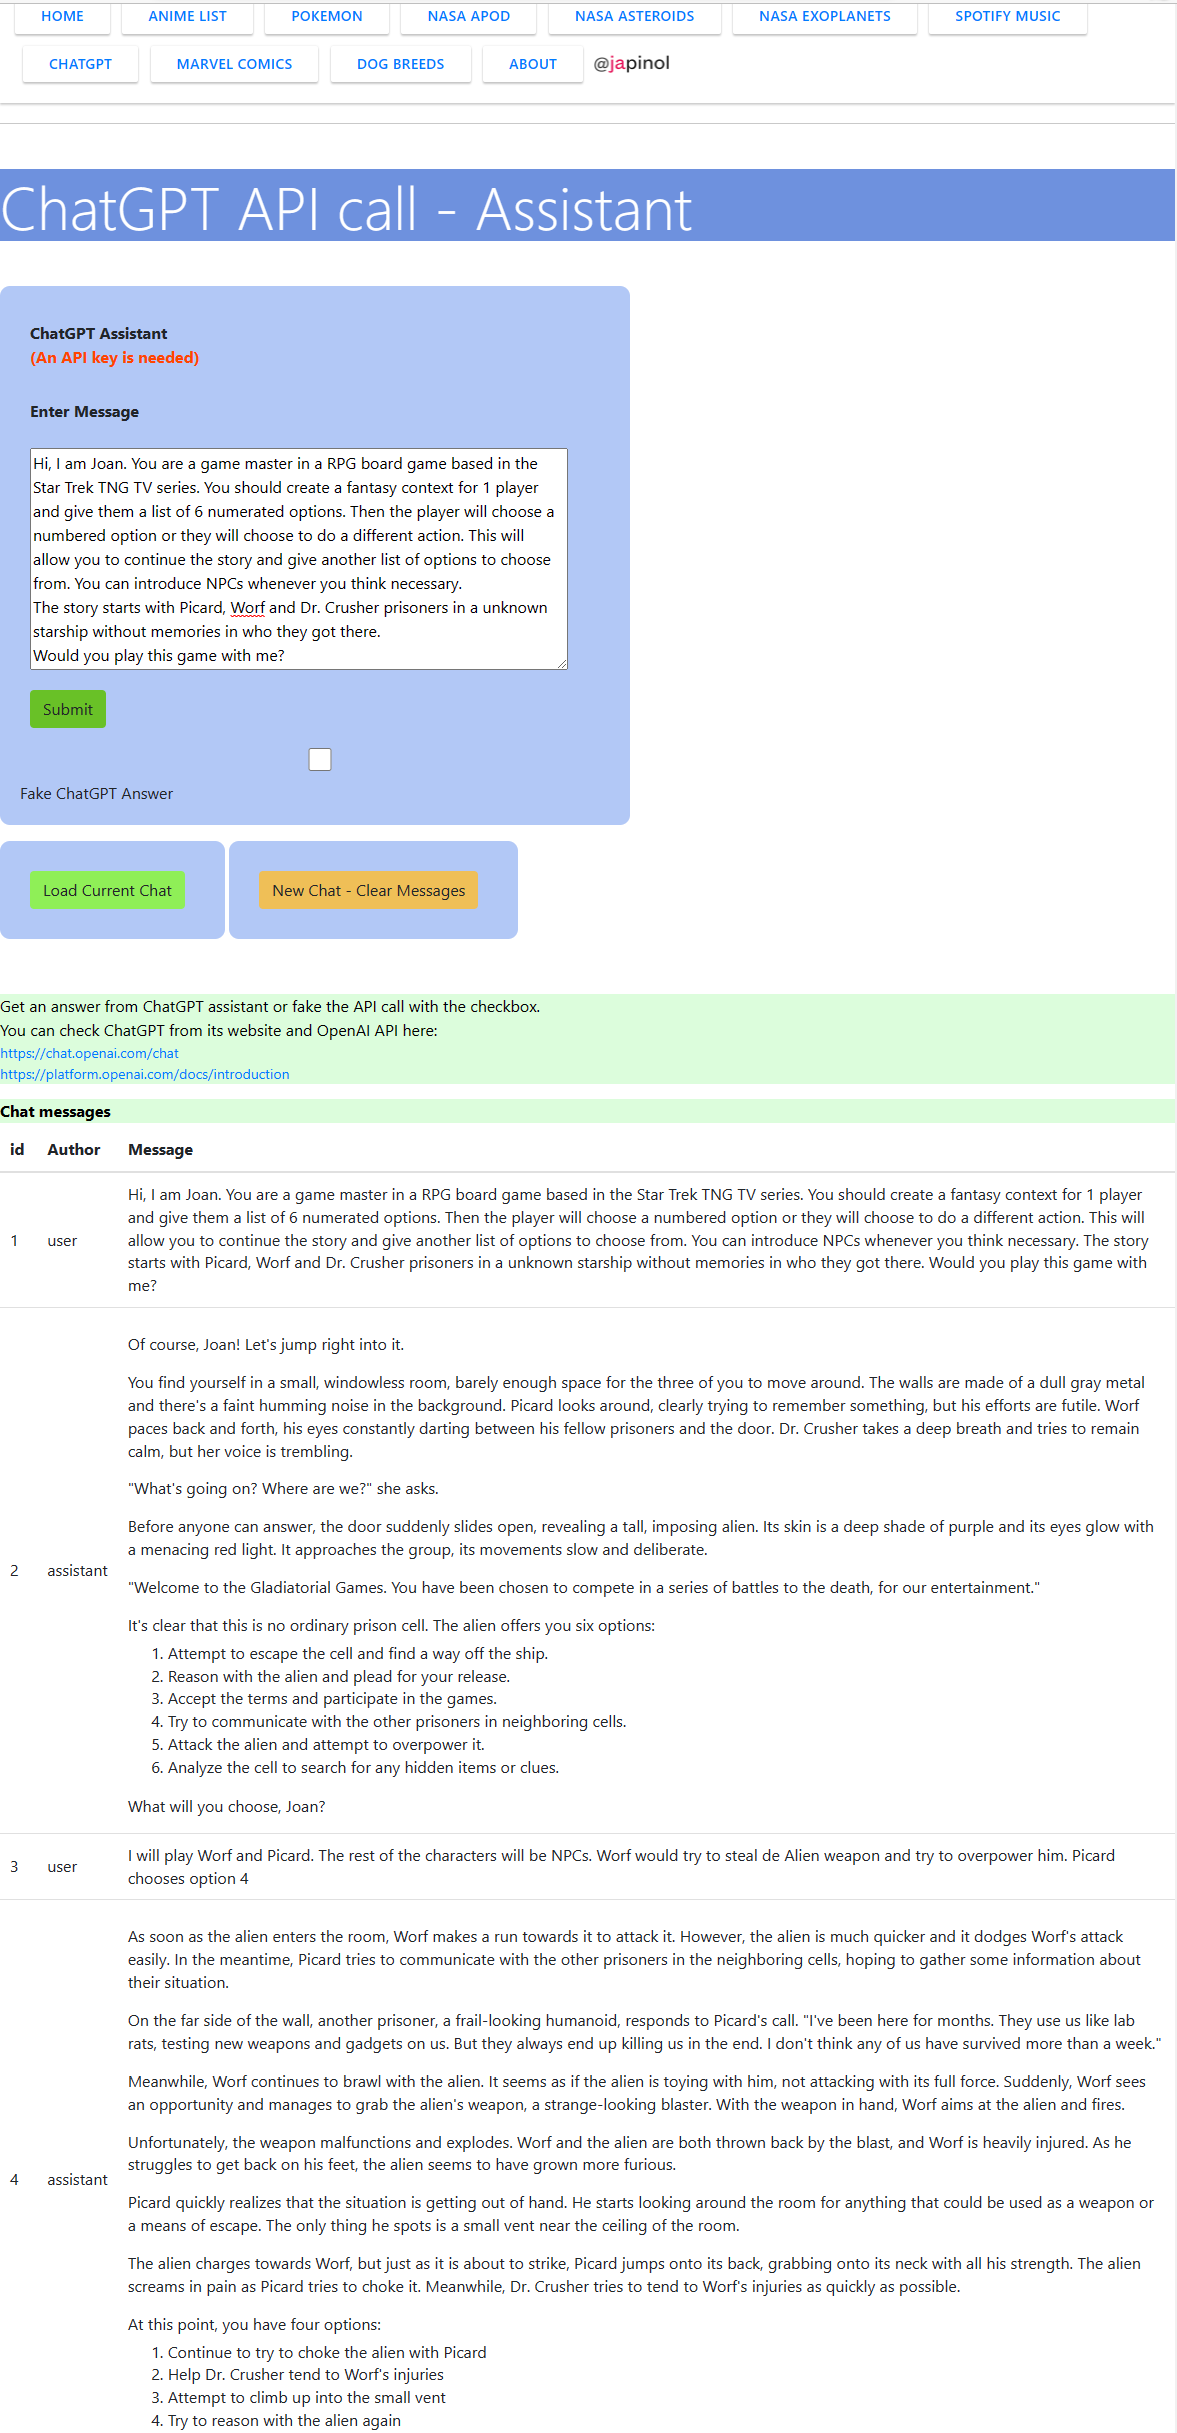
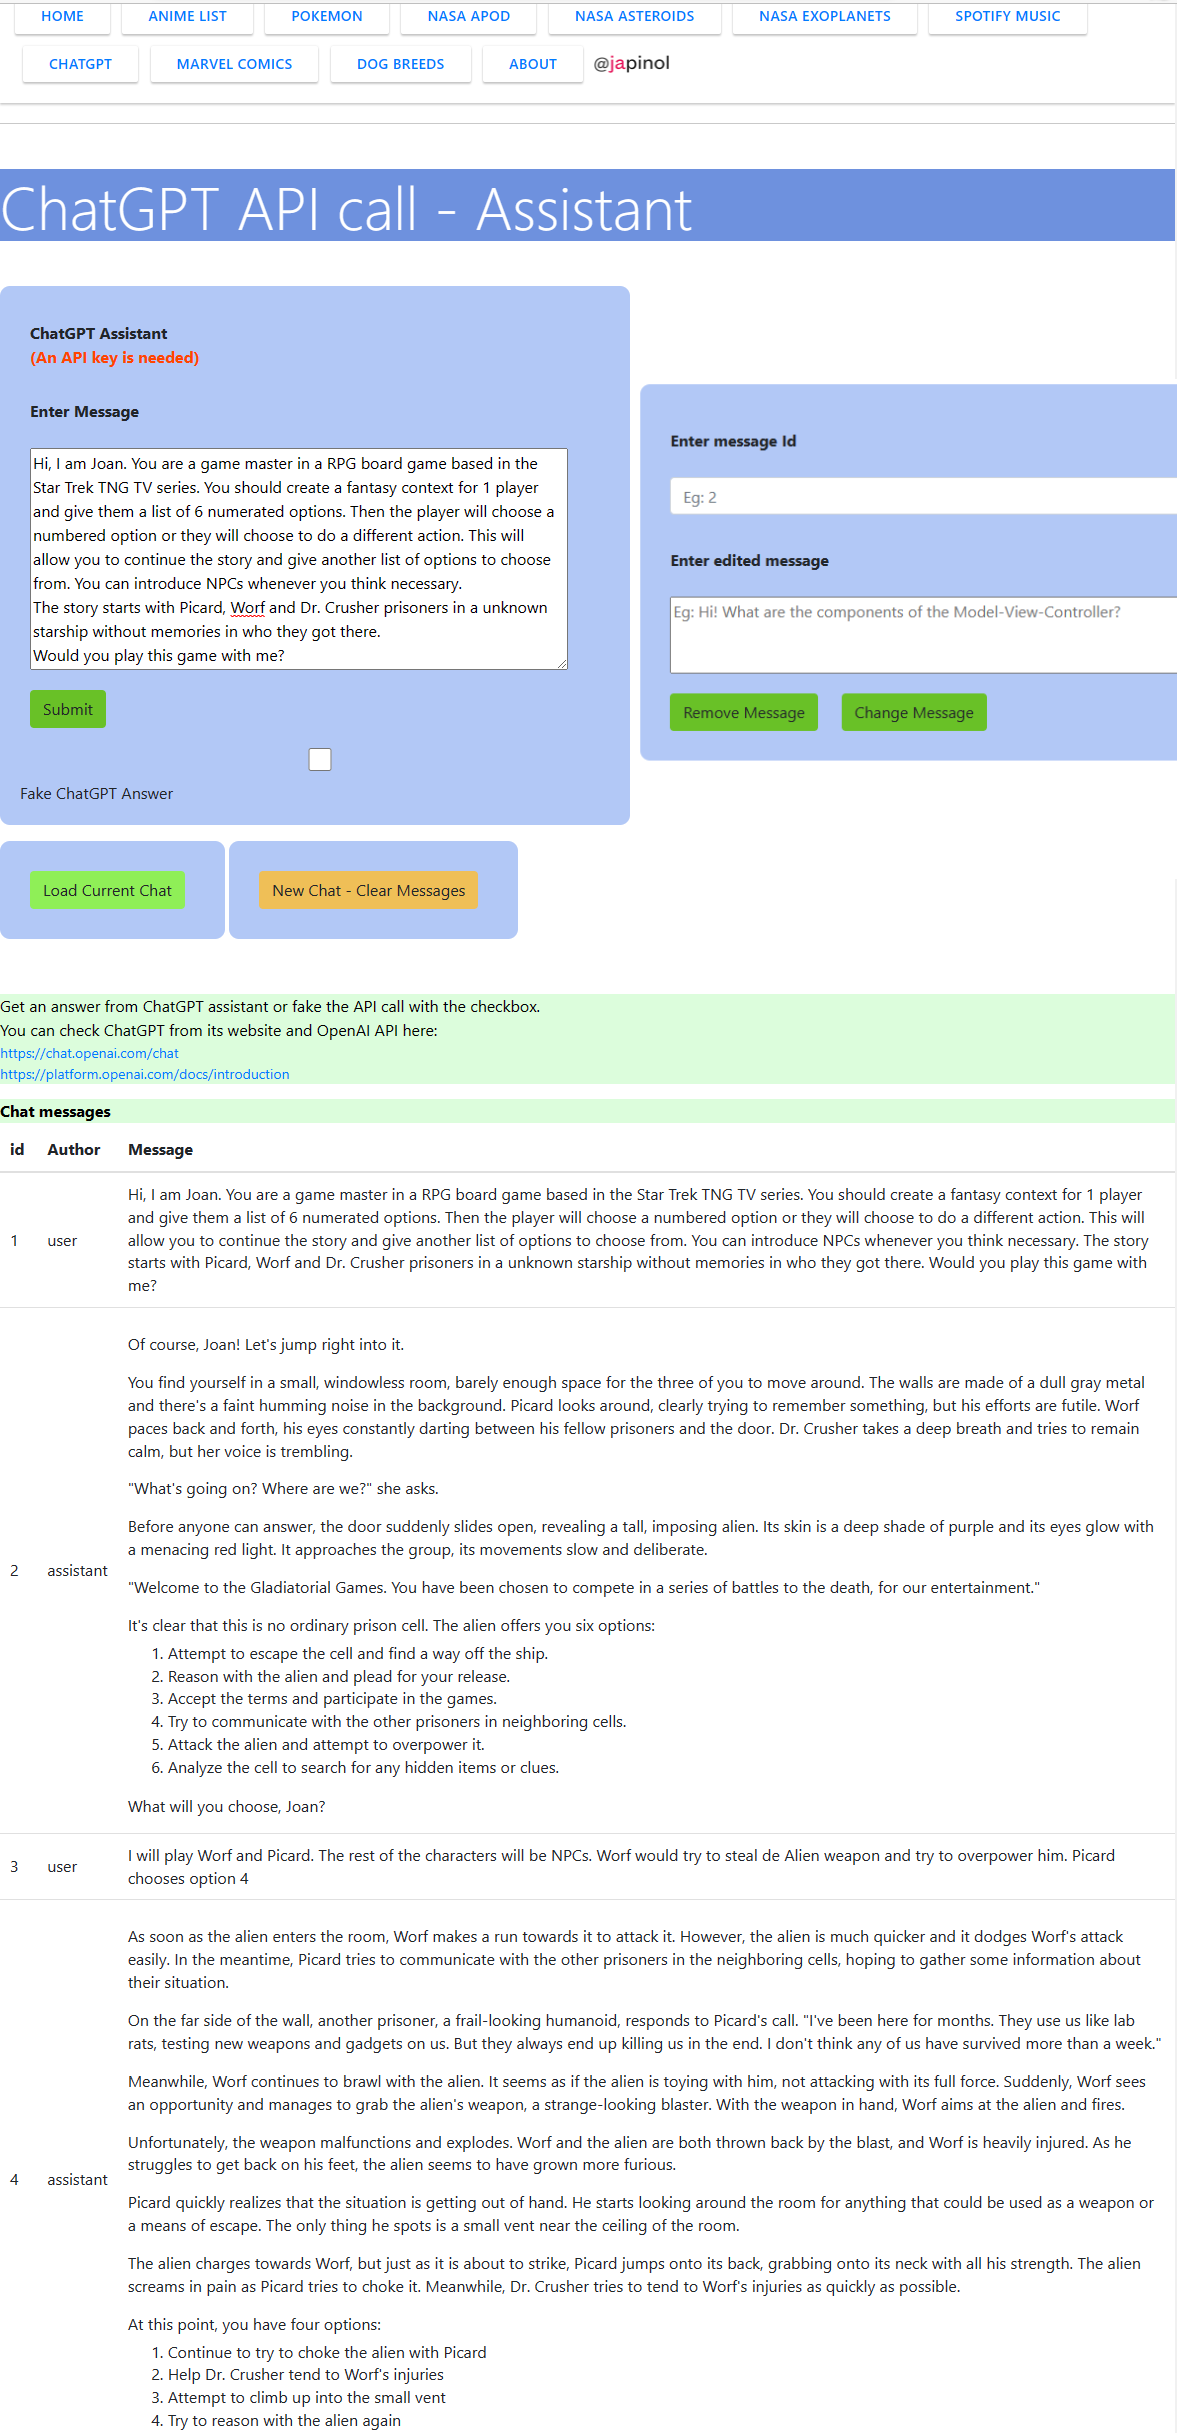
[IMP] chatgpt: Improvements.

Changed region(s): [[0.52, 0.1562, 1.0, 0.3124]]

diff --git a/app/templates/chatgpt.html b/app/templates/chatgpt.html
@@ -10,30 +10,41 @@
                 <span class="body_highlight_color_2">(An API key is needed)</span></strong>
             </p>
             <label for="chatgpt_msg"><p><strong>Enter Message</strong></p></label>
-            <textarea name="chatgpt_msg" id="chatgpt_msg" rows="9" cols="70"
+            <textarea name="chatgpt_msg" id="chatgpt_msg" rows="3" cols="74"
                       placeholder="Eg: Hi! What are the components of the Model-View-Controller?"
                       required></textarea>
-            <button class="submit-messages-random">Submit</button>
+            <button class="submit-message">Submit Message</button>
             <input type=checkbox name="flags"
                    style="font-size:6px;"
                    value="Fake ChatGPT Answer">Fake ChatGPT Answer<br/>
+        </form>
+        <form class="chatgpt-form-class" id="chatgpt_form_remove_msg"
+              action="/chatgpt" method="POST" style="background:#b2c8f6;width: 630px;min-width: 200px;max-width: 800px">
+            <label for="chatgpt_input_remove_msg"><p>
+                <strong>Enter message Id</strong></p></label>
+            <input name="chatgpt_input_remove_msg" id="chatgpt_input_remove_msg"
+                   type="number" placeholder="Eg: 2">
+                <br>
+                <strong>Enter edited message </strong></p></label>
+            <textarea name="chatgpt_msg_change" id="chatgpt_msg_change" rows="3" cols="74"
+                    placeholder="Eg: Hi! What are the components of the Model-View-Controller?"
+                    required></textarea>
+            <button name="chatgpt_remove_msg" id="chatgpt_remove_msg"
+                    class="submit-remove-message">Remove Message</button>
+            <button name="chatgpt_change_msg" id="chatgpt_change_msg"
+                    class="submit-change-message">Change Message</button>
         </form>
 
         <div>
             <form class="chatgpt-form-class" id="chatgpt_form_reload_conversation"
                   action="/chatgpt" method="POST" style="background:#b2c8f6">
-                <button name="chatgpt_reload_messages" id="chatgpt_reload_messages"
-                        style="background:#8fef57"
-                        >Load Current Chat
-                </button>
-            </form>
-
-            <form class="chatgpt-form-class" id="chatgpt_form_new_conversation"
-                  action="/chatgpt" method="POST" style="background:#b2c8f6">
                 <button name="chatgpt_new_chat" id="chatgpt_new_chat"
                         class="chatgpt-new-chat" style="background:#efbf57"
-                        >New Chat - Clear Messages
-                </button>
+                        >New Chat</button>
+                <br> <br> <br>
+                <button name="chatgpt_reload_messages" id="chatgpt_reload_messages"
+                        style="background:#8fef57"
+                        >Load Current Chat</button>
             </form>
         </div>
     </div>

diff --git a/app/chatgpt/views/chatgpt_view.py b/app/chatgpt/views/chatgpt_view.py
@@ -13,6 +13,8 @@ REQUEST_FORM_ID_MAPPINGS = {
     'chatgpt_msg': 'chatgpt_form_conversation',
     'chatgpt_reload_messages': 'chatgpt_form_reload_conversation',
     'chatgpt_new_chat': 'chatgpt_form_new_conversation',
+    'chatgpt_remove_msg': 'chatgpt_form_remove_msg',
+    'chatgpt_change_msg': 'chatgpt_form_change_msg',
     }
 
 
@@ -29,39 +31,72 @@ def chatgpt():
     return render_template('chatgpt.html', messages=messages, form_executed=form_executed)
 
 
-def process_form_chatgpt_msg(conversation_int):
+def process_form_conversation(conversation_int):
     logger.info("Process user input")
     input_text = request.form.get('chatgpt_msg')
+    input_text = input_text.strip() if input_text else ''
     is_fake_msg = 'Fake ChatGPT Answer' in request.form.getlist('flags')
 
     if is_fake_msg:
         logger.info("Generate fake answer")
         conversation_int.get_chatgpt_answer_fake(input_text)
-    else:
+    elif input_text:
         conversation_int.get_chatgpt_answer(input_text)
 
     return {
-        'messages': conversation_int.get_messages(),
+        'messages': conversation_int.get_messages().values(),
         'error': None,
         }
 
 
-def process_form_chatgpt_reload_messages(conversation_int):
+def process_form_reload_messages(conversation_int):
     logger.info("Reload conversation")
     return {
-        'messages': conversation_int.get_messages(),
+        'messages': conversation_int.get_messages().values(),
         'error': None,
         }
 
 
-def process_form_chatgpt_new_chat(conversation_int):
+def process_form_new_chat(conversation_int):
     logger.info("New conversation")
     conversation_int.reset()
     return {}
 
 
+def process_form_remove_msg(conversation_int):
+    logger.info("Remove Message")
+    msg_id = clean_input_id(request.form.get('chatgpt_input_remove_msg'))
+    if msg_id and conversation_int.get_messages().get(msg_id):
+        del conversation_int.get_messages()[msg_id]
+
+    return {
+        'messages': conversation_int.get_messages().values(),
+        'error': None,
+        }
+
+
+def process_form_change_msg(conversation_int):
+    logger.info("Change Message")
+    msg_id = clean_input_id(request.form.get('chatgpt_input_remove_msg'))
+    input_text = request.form.get('chatgpt_msg_change')
+    input_text = input_text.strip() if input_text else ''
+    if msg_id and input_text and conversation_int.get_messages().get(msg_id):
+        conversation_int.change_message(msg_id, input_text)
+
+    return {
+        'messages': conversation_int.get_messages().values(),
+        'error': None,
+        }
+
+
+def clean_input_id(id_):
+    return int(id_) if id_.isnumeric() else 0
+
+
 REQUEST_FORM_FUNCT_MAPPINGS = {
-    'chatgpt_msg': process_form_chatgpt_msg,
-    'chatgpt_reload_messages': process_form_chatgpt_reload_messages,
-    'chatgpt_new_chat': process_form_chatgpt_new_chat,
+    'chatgpt_msg': process_form_conversation,
+    'chatgpt_reload_messages': process_form_reload_messages,
+    'chatgpt_new_chat': process_form_new_chat,
+    'chatgpt_remove_msg': process_form_remove_msg,
+    'chatgpt_change_msg': process_form_change_msg,
     }

diff --git a/app/chatgpt/usecases/conversation_interactor.py b/app/chatgpt/usecases/conversation_interactor.py
@@ -6,7 +6,7 @@ from ...tools.utils import utils
 
 import logging
 
-FAKE_ANSWER_MSG = "Fake Answer: I don't know. Really. Please, forgive me already!"
+FAKE_ANSWER_MSG = "Fake Answer."
 
 logging.basicConfig(format='%(asctime)s %(levelname)s %(name)s: %(message)s')
 logger = logging.getLogger(__name__)
@@ -57,10 +57,15 @@ class ConversationInteractor:
         return self.conversation.messages
 
     def add_message(self, author, text):
-        self.conversation.messages += [Message(author, text)]
+        self.conversation.messages.update({
+                Message.next_num_id: Message(author, text)
+                })
+
+    def change_message(self, id_, text):
+        self.conversation.messages[id_].text = text
 
     def get_conversation_formatted(self):
-        return [ChatGPTClient.format_message(msg.author, msg.text) for msg in self.conversation.messages]
+        return [ChatGPTClient.format_message(msg.author, msg.text) for msg in self.conversation.messages.values()]
 
     def get_chatgpt_answer_fake(self, text):
         self.add_message('user', text)

diff --git a/app/chatgpt/models/conversation.py b/app/chatgpt/models/conversation.py
@@ -5,14 +5,14 @@ class Conversation:
     def __init__(self, title):
         self.id = self.__class__.next_num_id
         self.title = title
-        self.messages = []
+        self.messages = {}
 
         self.num_id = self.__class__.next_num_id
         self.__class__.next_num_id += 1
         self.__class__.conversations.append(self)
 
     def __str__(self):
-        return f"id: {self.id}, title: {self.title}, # messages: {self.messages}"
+        return f"id: {self.id}, title: {self.title}, # messages: {len(self.messages)}"
 
     def __repr__(self):
         return f"{self.__class__.__name__}(" \
@@ -22,5 +22,5 @@ class Conversation:
     def reset(cls):
         cls.next_num_id = 1
         for conversation in cls.conversations:
-            conversation.messages = []
+            conversation.messages = {}
         cls.conversations = []
